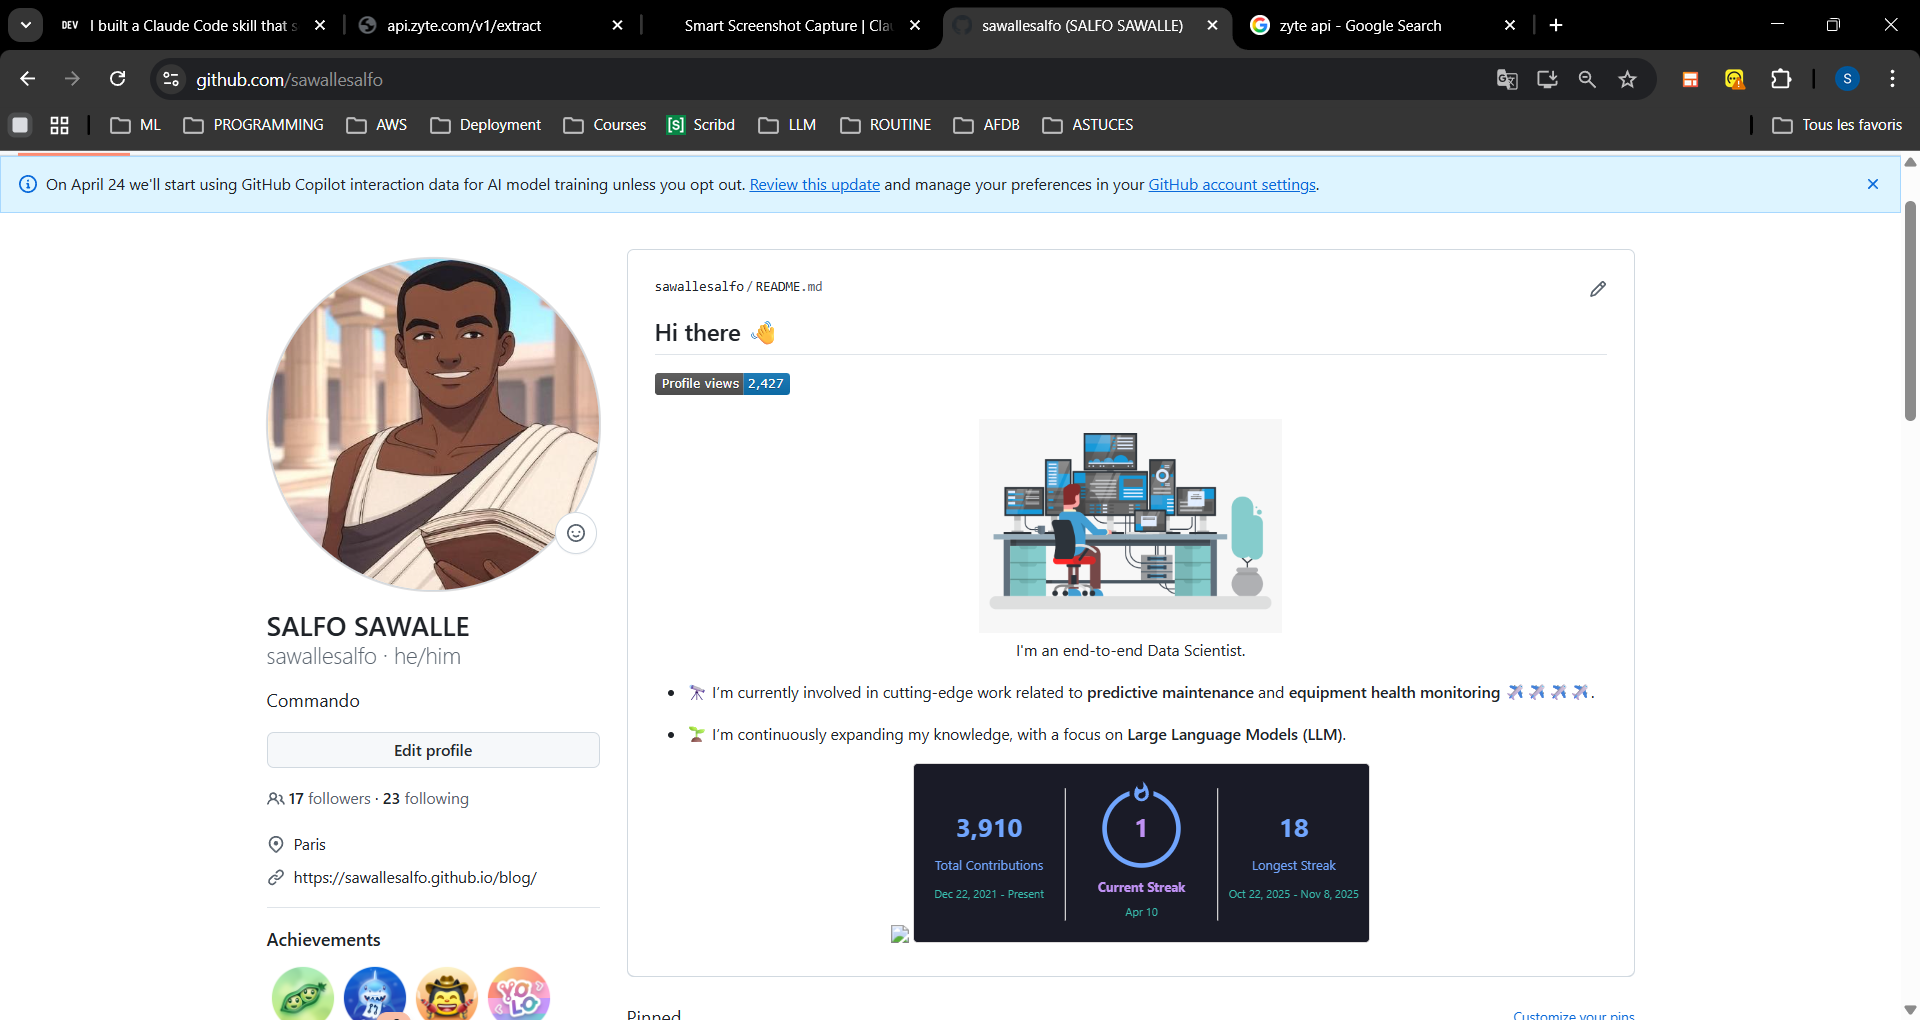
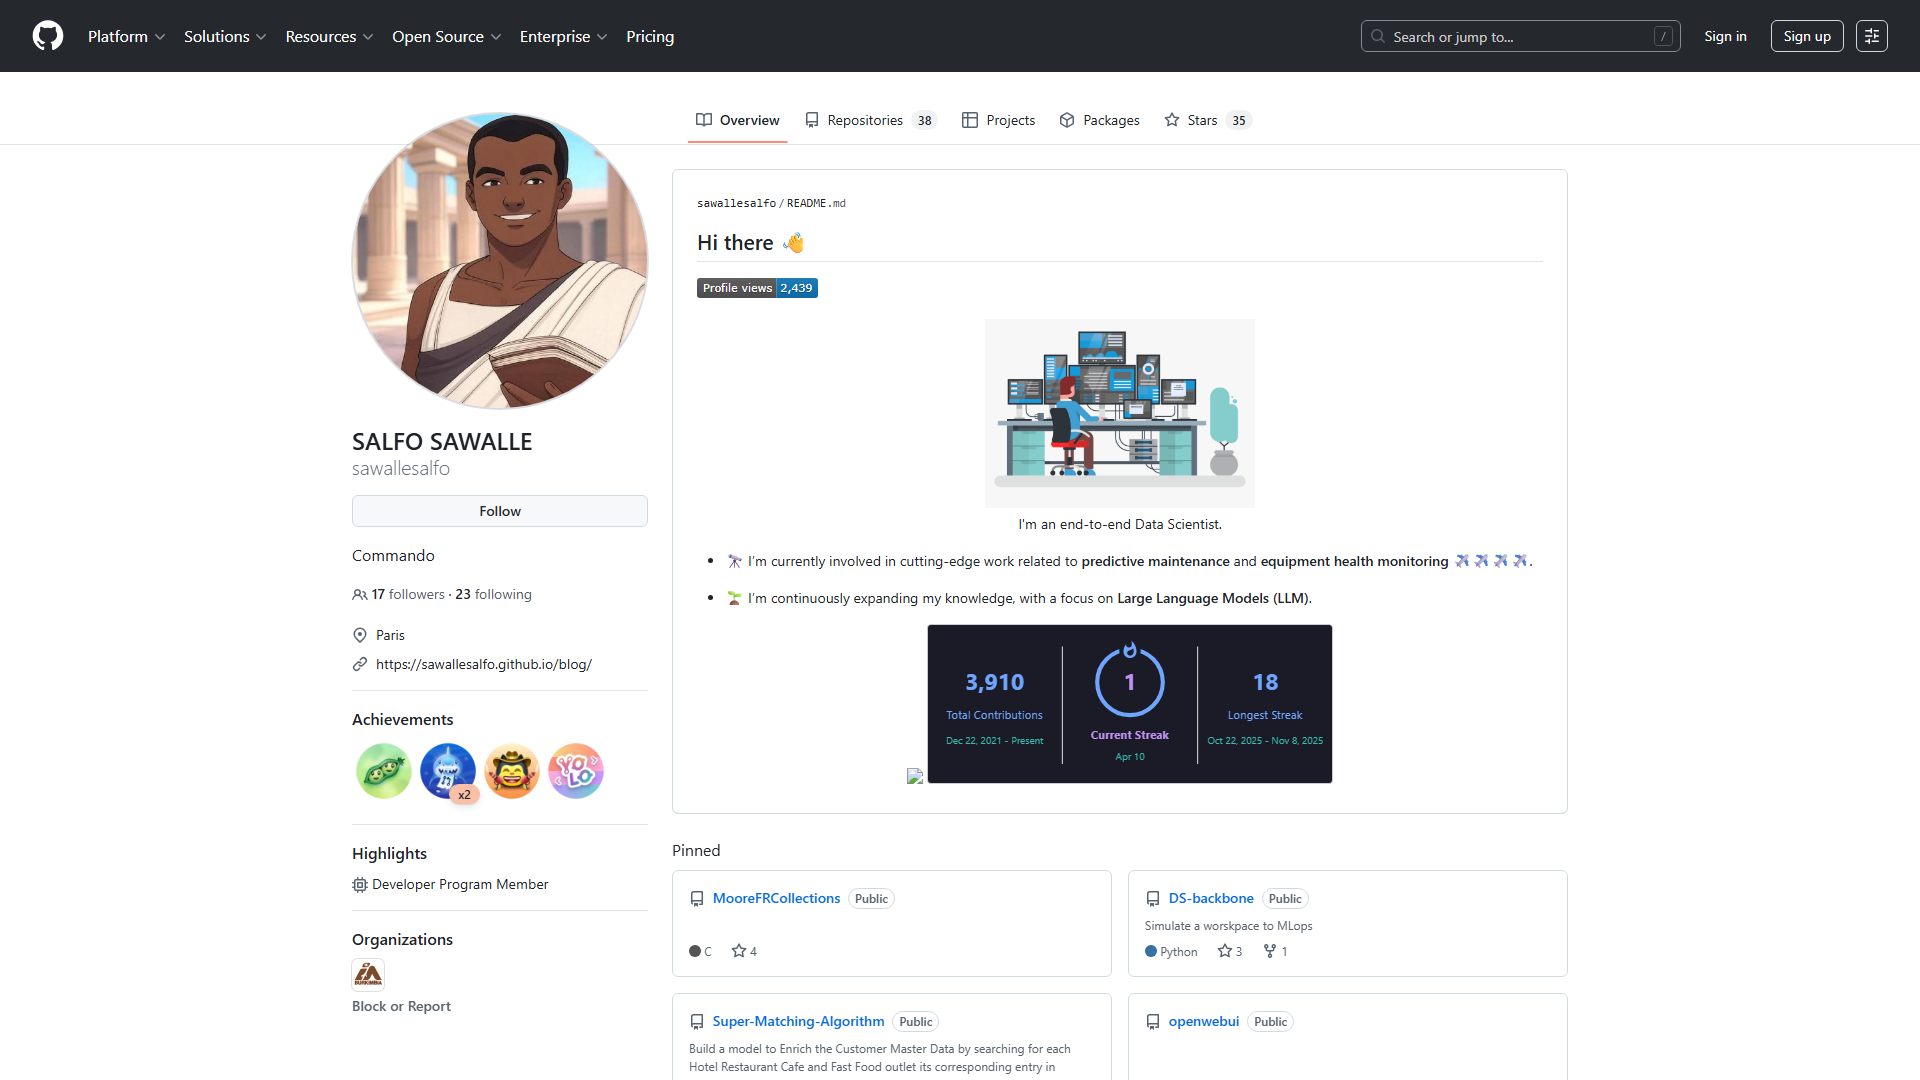
Fix screenshot skill — viewport mode by default instead of full-page
Captures only the visible viewport (1920x1080) like a real screen.
Full-page scroll capture only when explicitly requested by the user.
Updated example image with clean 1080p viewport screenshot.

diff --git a/plugins/screenshot/skills/screenshot/SKILL.md b/plugins/screenshot/skills/screenshot/SKILL.md
@@ -66,21 +66,29 @@ Examples:
 
 ### Step 3 — Take the screenshot
 
-Run this command, substituting the URL and derived filename:
+By default, capture only the **visible viewport** (like a real screen), NOT the full scrollable page.
+Use `--viewport-size "1920,1080"` for a crisp 1080p screenshot.
 
+**Default command (viewport only — like a real screen):**
 ```bash
-npx playwright screenshot --full-page --wait-for-timeout 3000 "URL" "FILENAME"
+npx playwright screenshot --wait-for-timeout 3000 --viewport-size "1920,1080" "URL" "FILENAME"
 ```
 
-**Options to use depending on context:**
-- `--full-page` — captures the entire scrollable page (always use)
-- `--wait-for-timeout 3000` — wait 3 seconds for JS to load (default)
+**Only use `--full-page` if the user explicitly asks for the entire page:**
+```bash
+npx playwright screenshot --full-page --wait-for-timeout 3000 --viewport-size "1920,1080" "URL" "FILENAME"
+```
+
+**Options:**
+- `--viewport-size "1920,1080"` — 1080p resolution (always use)
+- `--wait-for-timeout 3000` — wait 3 seconds for JS to load
+- `--full-page` — ONLY when user asks for entire scrollable page
 - `--ignore-https-errors` — add if the site has SSL issues
 - `--block-service-workers` — add if the page is slow or uses service workers
 
 If the default screenshot fails (e.g., timeout, rendering issues), retry with extended options:
 ```bash
-npx playwright screenshot --full-page --wait-for-timeout 5000 --block-service-workers --ignore-https-errors "URL" "FILENAME"
+npx playwright screenshot --wait-for-timeout 5000 --viewport-size "1920,1080" --block-service-workers --ignore-https-errors "URL" "FILENAME"
 ```
 
 After running, verify the file was created and is non-empty:
